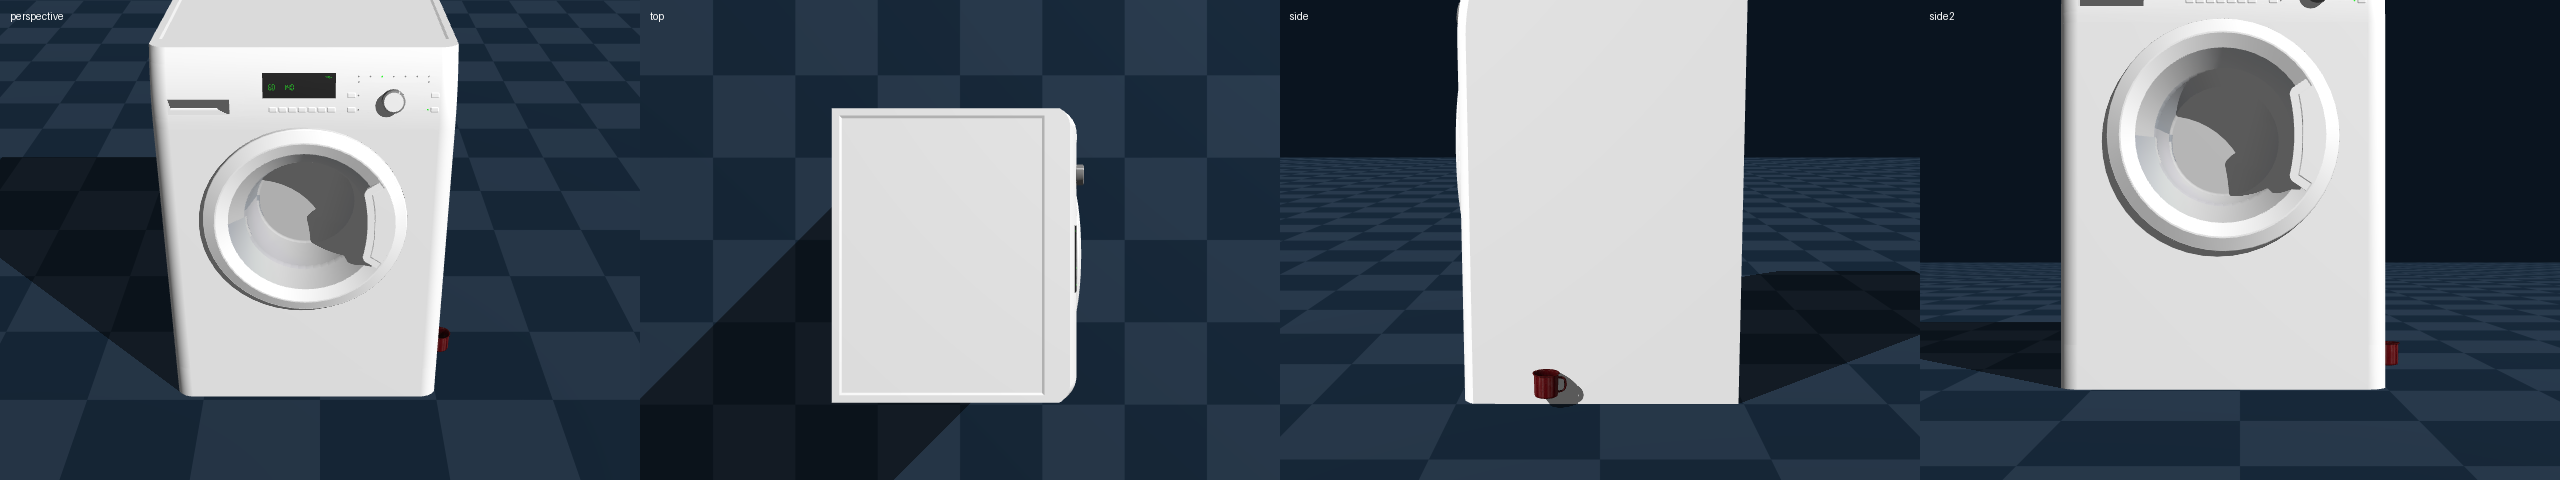
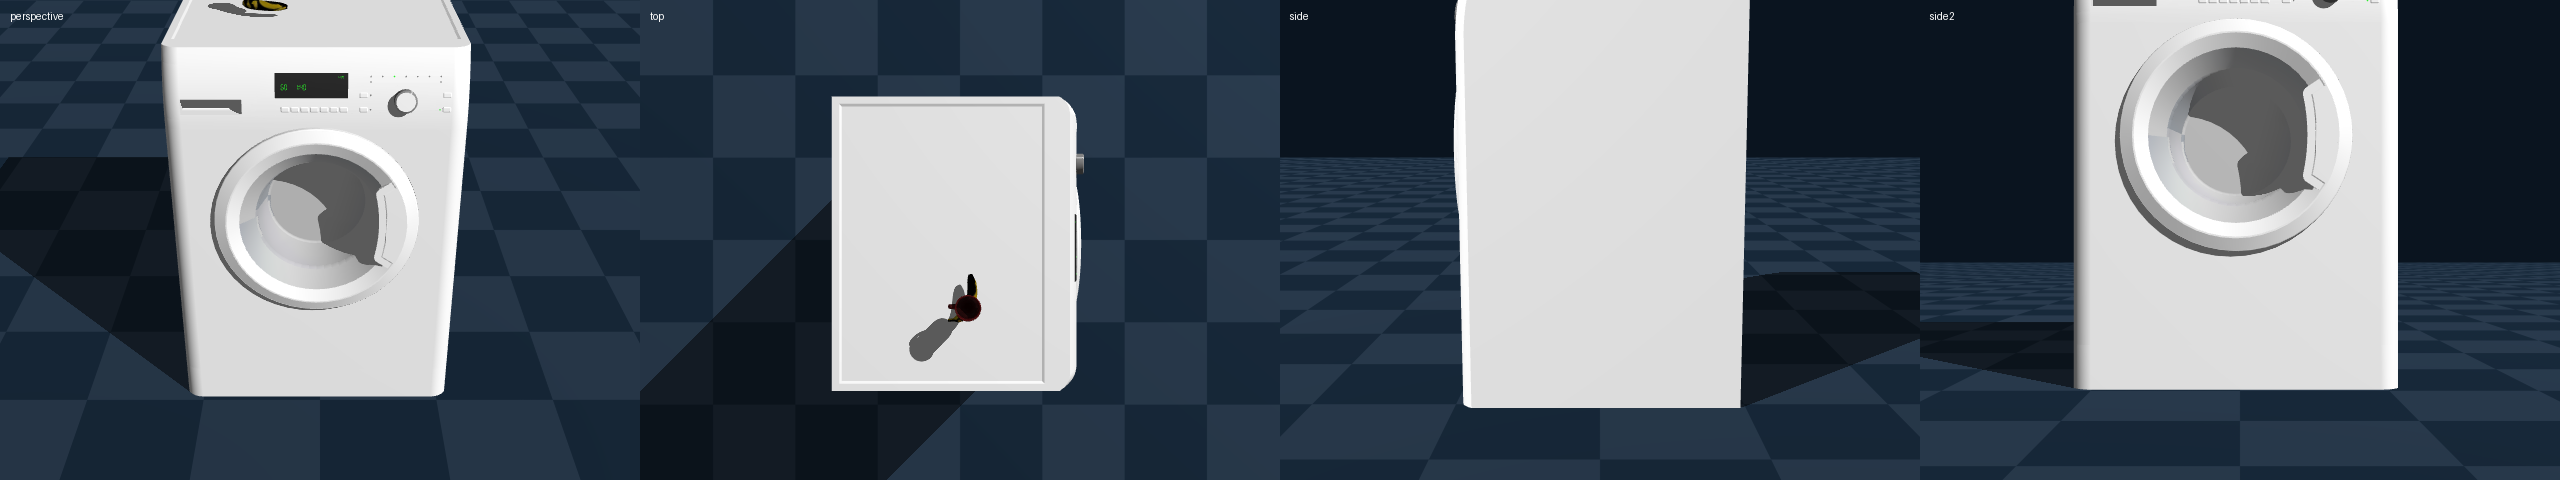
modifs legeres

diff --git a/src/pipeline/sceneBuilding.py b/src/pipeline/sceneBuilding.py
@@ -194,7 +194,7 @@ def apply_relation(rel, item, subject):
         new_x = x + w/2 + sw/2 + 0.01
         new_y = y
     elif rel_type in ['right_of', 'left_of', 'in_front_of', 'behind']:
-        # new_z keeps subject's initPosAndQuat value (ground-level already set)
+        new_z = z  # meme hauteur que l'objet de reference
         offset = distance if isDistance else random.uniform(0.05, 0.2)
         if rel_type == 'right_of':
             new_x = x
@@ -228,14 +228,13 @@ def processRelations(items, relations):
     relations = simplifyRelations(relations)
     build_scene_graph(items_dict, relations)
 
-    # root = items jamais subjects d'une relation verticale (ne reposent sur rien)
-    subjects = {rel['subject'] for rel in relations if rel['type'] in ('on', 'inside')}
-    placed_items = {item['id'] for item in items if item['id'] not in subjects}
+    # roots = objets sans parent (pas portes par un autre objet selon build_scene_graph)
+    placed_items = {item['id'] for item in items if items_dict[item['id']].get('parent_id') is None}
     if not placed_items:
         placed_items = {items[0]['id']}
     print(f"[sceneBuilding] roots : {placed_items}")
 
-    # directionnelles en premier : les roots sont positionnés avant que leurs enfants soient posés dessus
+    # directionnelles d'abord : les roots sont repositionnes avant que leurs enfants soient poses dessus
     relations.sort(key=lambda r: 0 if r['type'] not in ('on', 'inside') else 1)
     reste = [rel for rel in relations if rel.get('object') in items_dict and rel.get('subject') in items_dict]
     while reste:

diff --git a/src/pipeline/versions/v2_llm_only/pipeline_v2_llm.py b/src/pipeline/versions/v2_llm_only/pipeline_v2_llm.py
@@ -45,7 +45,9 @@ def object_dim_quat(prompt, objet_reconnus):
   - "id" and "urdf" must be copied verbatim from the objects list above
   - scale: adjust so the object looks realistic in the scene (1.0 = use real dimensions as-is)
   - quat: orientation as [w, x, y, z] — default orientation = [1.0,0.0,0.0,0]
-  - pos z: set to half of (dimensions[2] * scale) so the object rests on the floor
+  - pos z for objects resting on the FLOOR: dimensions[2] * scale / 2
+  - pos z for objects placed ON another object: parent_pos_z + parent_dimensions[2] * parent_scale / 2 + this_dimensions[2] * this_scale / 2
+  - IMPORTANT: always compute parent object position first, then compute child position on top of it
   - objects must NOT overlap — space them according to the scene description
   - output raw JSON only, no markdown, no comments, no explanation"""
 
@@ -110,6 +112,8 @@ def modify_scene(prompt, current_objects_json, objet_reconnus):
         - For "remove": delete the object from the list
         - For "replace X with Y": change the urdf and id, keep similar pos/scale
         - For "add": add a new object with appropriate pos (no overlap)
+        - pos z for objects on the floor: dimensions[2] * scale / 2
+        - pos z for objects ON another: parent_pos_z + parent_dimensions[2] * parent_scale / 2 + this_dimensions[2] * this_scale / 2
 
         OUTPUT FORMAT — return ONLY:
         {{

diff --git a/src/boucle_validation/validation_img.py b/src/boucle_validation/validation_img.py
@@ -4,13 +4,13 @@ import base64
 import ollama
 import openai
 import json
-from jsonToSim import validation_physique
-from validation_utils import create_run_dir, correct_list, clean_reponse, save_iteration_scene
+from .jsonToSim import validation_physique
+from .validation_utils import create_run_dir, correct_list, clean_reponse, save_iteration_scene
 from PIL import Image
 import xml.etree.ElementTree as ET
 import copy
 
-def boucle_vlm_img(user_image_path, jsonFile, max_iter=2):
+def boucle_vlm_img(user_image_path, jsonFile, max_iter=5):
     '''
     Boucle de validation qui compare la scène générée à une image de référence fournie par l'utilisateur.
     '''
@@ -104,7 +104,7 @@ def validation_semantique_img(user_image_path, data, scene_image_path):
         ]
     )
     '''
-    client = openai.OpenAI(api_key=OPENAI_API_KEY)
+    client = openai.OpenAI()
     response = client.chat.completions.create(
         model="gpt-4o-mini",
         messages=[

diff --git a/src/boucle_validation/validation_prompt.py b/src/boucle_validation/validation_prompt.py
@@ -4,8 +4,8 @@ import base64
 import ollama
 import openai
 import json
-from jsonToSim import validation_physique
-from validation_utils import create_run_dir, correct_list, clean_reponse, save_iteration_scene
+from .jsonToSim import validation_physique
+from .validation_utils import create_run_dir, correct_list, clean_reponse, save_iteration_scene
 import json
 import copy
 
@@ -15,7 +15,7 @@ import json
 
 
 
-def boucle_vlm_prompt(user_prompt, jsonFile, max_iter=10):
+def boucle_vlm_prompt(user_prompt, jsonFile, max_iter=5):
 
     run_dir = create_run_dir()
     history = []
@@ -106,7 +106,7 @@ def validation_semantique_prompt(original_prompt, data, image_path):
     )
     '''
     
-    client = openai.OpenAI(api_key=OPENAI_API_KEY)
+    client = openai.OpenAI()
     response = client.chat.completions.create(
         model="gpt-4o-mini",
         messages=[

diff --git a/src/pipeline_worker.py b/src/pipeline_worker.py
@@ -135,6 +135,12 @@ def postprocess_objects(objetsList, objet_reconnus):
         # path : ajouter depuis objet_reconnus si absent, puis resoudre vers fichier
         if not obj.get("path") and info.get("path"):
             obj["path"] = info["path"]
+        # fallback: si le id du LLM ne correspond pas aux cles d'objet_reconnus, chercher par urdf
+        if not obj.get("path"):
+            urdf = obj.get("urdf", "")
+            catalog = objets_list(OBJETS_DIR)
+            if urdf in catalog:
+                obj["path"] = catalog[urdf]["path"]
         if obj.get("path"):
             obj["path"] = resolve_urdf_path(obj["path"])
 

diff --git a/src/launch_genesis.py b/src/launch_genesis.py
@@ -4,9 +4,13 @@ import json
 
 sys.path.insert(0, os.path.dirname(os.path.abspath(__file__)))
 from simulation.simulationGenesis import create_scene
+from pipeline.itemSpec import getFilePath
 
 if __name__ == "__main__":
     scene_path = sys.argv[1] if len(sys.argv) > 1 else os.path.join(os.path.dirname(__file__), "..", "scenes", "scene_generee.json")
     with open(scene_path, 'r', encoding='utf-8') as f:
         objetsList = json.load(f)
+    for obj in objetsList:
+        if not obj.get('path'):
+            obj['path'] = getFilePath(obj)
     create_scene(objetsList)

diff --git a/src/pipeline/itemSpec.py b/src/pipeline/itemSpec.py
@@ -33,6 +33,11 @@ def getFilePath(item):
                 if os.path.exists(path):
                     return path
 
+        # fallback : n'importe quel URDF dans le dossier
+        for f in os.listdir(base):
+            if f.endswith(".urdf"):
+                return os.path.join(base, f)
+        
         raise FileNotFoundError(f"Aucun fichier exploitable trouvé dans {base}")
 
     return base

diff --git a/src/simulation/simulationGenesis.py b/src/simulation/simulationGenesis.py
@@ -115,7 +115,7 @@ def create_scene(objetsList):
     scene = gs.Scene(
         show_viewer=True,
         rigid_options=gs.options.RigidOptions(
-            dt=0.005,
+            dt=0.001,
             integrator=gs.integrator.Euler,
         ),
         vis_options=gs.options.VisOptions(
